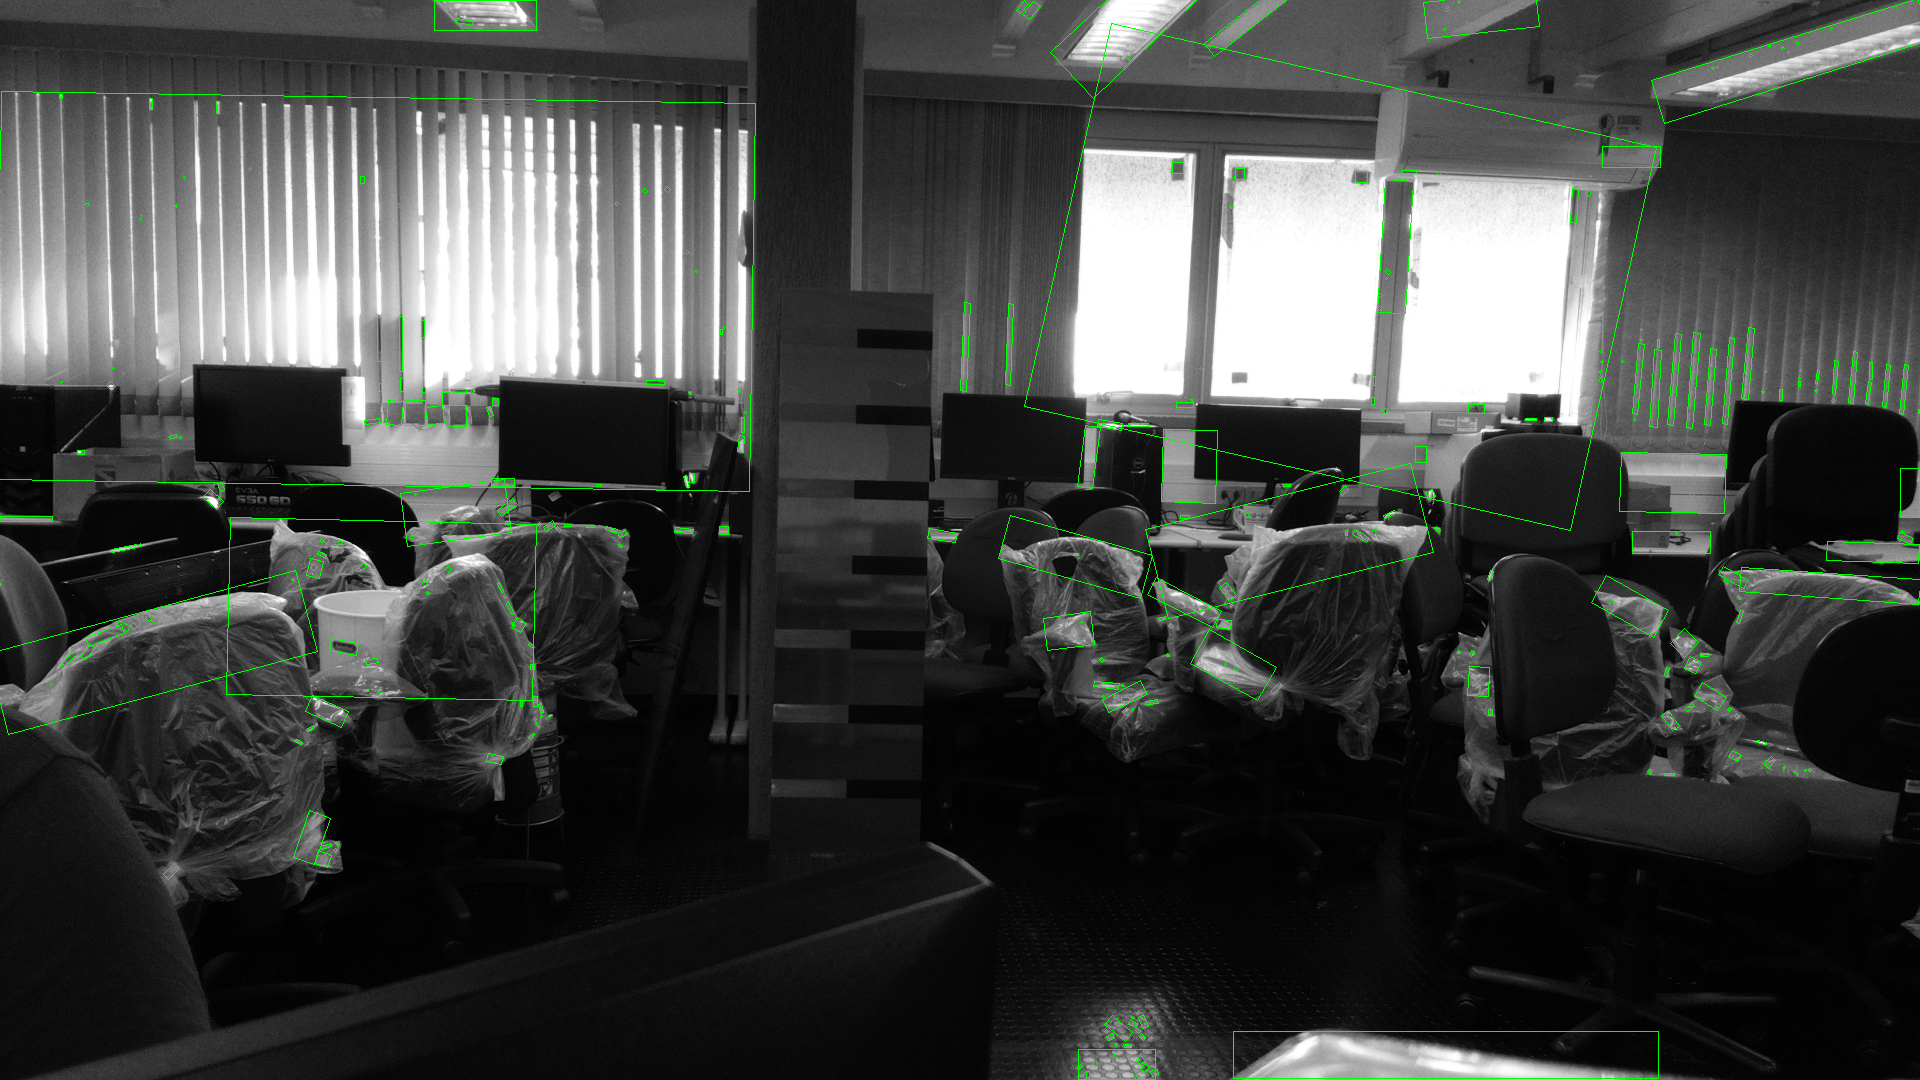
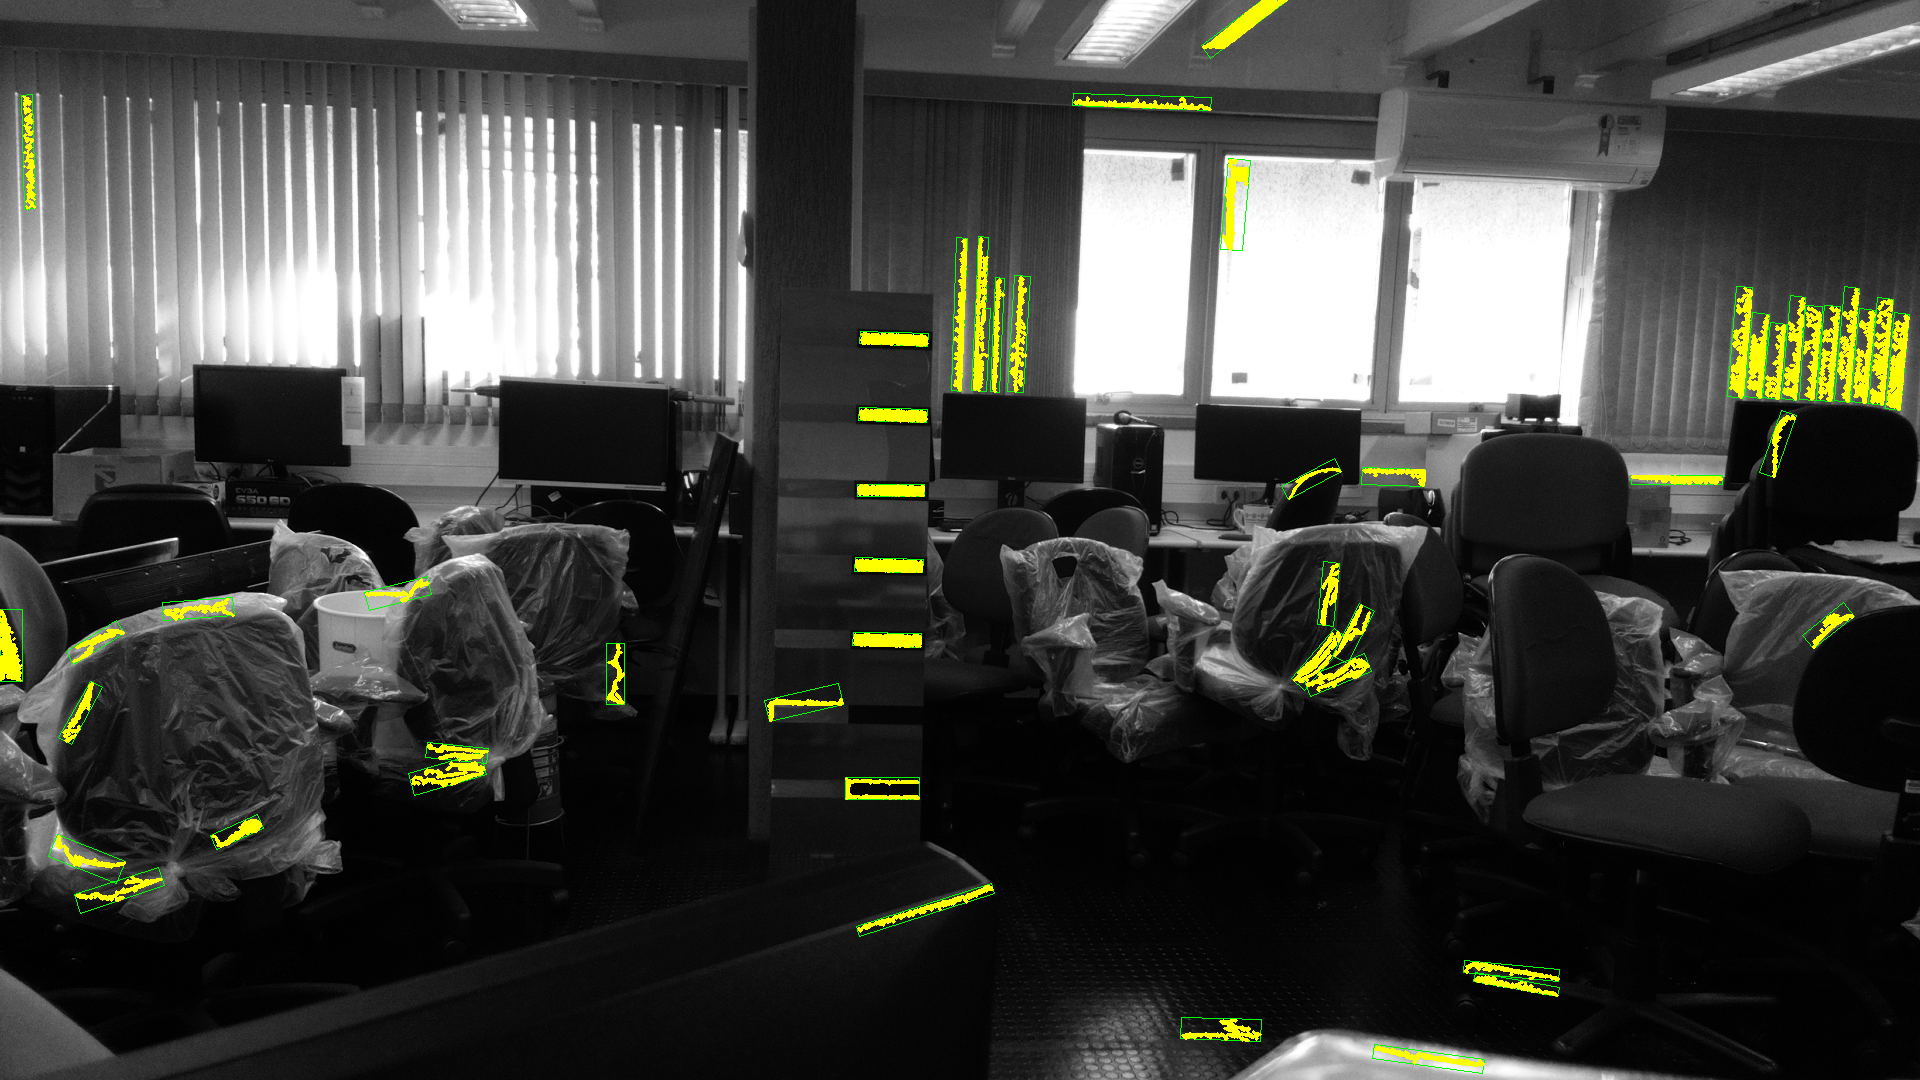
Testando outro metodo de trasholder adaptativo

diff --git a/qualis/codes/teste_bar_detect.py b/qualis/codes/teste_bar_detect.py
@@ -5,7 +5,7 @@ import numpy as np
 import os
 import glob
 import time
-from picamera import PiCamera
+# from picamera import PiCamera
 
 
 # Definicao da funcao morfologica
@@ -37,9 +37,6 @@ def analyze_bars(matblobs,countours_frame, file):
     box = cv2.boxPoints(rot_rect)
     box = np.int0(box)
 
-    # Desenhando o contorno da area da barra encontrada
-    frame = cv2.drawContours(countours_frame,[box],0,(0,255,0),1)
-
     on_count = cv2.contourArea(bar)
     total_count = sw*sh
     if total_count <= 0:
@@ -53,13 +50,12 @@ def analyze_bars(matblobs,countours_frame, file):
       
 
     # Area minima 
-    if sw * sh < 1000:
+    if sw * sh < 800:
       continue
 
     # area maxima
-    if sw * sh > 4000:
+    if sw * sh > 2000:
       continue  
-
 
 
     #print('Area: ', sw * sh)
@@ -67,27 +63,29 @@ def analyze_bars(matblobs,countours_frame, file):
     # Proporcao da barra
     rect_ratio = sw / sh
 
-    #print('rect_ratio:', rect_ratio)
+    # print('rect_ratio:', rect_ratio)
 
-    if rect_ratio <= 9 or rect_ratio >= 14.5:
+    if rect_ratio <= 3 or rect_ratio >= 15.5:
 
       continue
-
 
     # Desenhando o contorno da area da barra encontrada
     #frame = cv2.drawContours(countours_frame,[box],0,(0,0,255),1)
 
     # Proporcao do preenchimento
     fill_ratio = on_count / total_count
-    #print('fill_ratio: ', fill_ratio)
+    # print('fill_ratio: ', fill_ratio)
 
-    if fill_ratio < 0.7 :
-      continue
+    # if fill_ratio < 0.6 :
+    #   continue
 
-    #print('countours_frame[int(cy),int(cx),0] ->', countours_frame[int(cy),int(cx),0])
-    # Remove as barras que sao mais claras
-    if countours_frame[int(cy),int(cx),0] > 200:
-      continue
+    # print('countours_frame[int(cy),int(cx),0] ->', countours_frame[int(cy),int(cx),0])
+    # # Remove as barras que sao mais claras
+    # if countours_frame[int(cy),int(cx),0] > 100:
+    #   continue
+
+    # Desenhando o contorno da area da barra encontrada
+    frame = cv2.drawContours(countours_frame,[box],0,(0,255,0),1)
 
     valid_bars.append(bar)
 
@@ -103,14 +101,14 @@ def analyze_bars(matblobs,countours_frame, file):
 
 def main_process():
 
-  camera = PiCamera() 
+  # camera = PiCamera() 
 
-  camera.start_preview()
-  time.sleep(10)
-  camera.capture('../imgs/in/second_tests/image_' + time.strftime('%Y-%m-%d_%H:%M:%S') + '.jpg')
-  camera.stop_preview()
+  # camera.start_preview()
+  # time.sleep(10)
+  # camera.capture('../imgs/in/second_tests/image_' + time.strftime('%Y-%m-%d_%H:%M:%S') + '.jpg')
+  # camera.stop_preview()
 
-  for file in glob.glob("../imgs/in/second_tests/*"):
+  for file in glob.glob("../imgs/in/third_tests/*"):
 
     img = cv2.imread(file)  
     gray = cv2.cvtColor(img,cv2.COLOR_BGR2GRAY)
@@ -121,7 +119,9 @@ def main_process():
     # Aplicando a tecnica 'thresholding Otsu'
     # Extrair a caracteristica da binarizacao da imagem
     # Otsu thresholding     
-    ret, thresh1 = cv2.threshold(blurred, 0, 255, cv2.THRESH_BINARY + cv2.THRESH_OTSU)  
+    # ret, thresh1 = cv2.threshold(blurred, 9, 100, cv2.THRESH_TOZERO + cv2.THRESH_OTSU)  
+    thresh1 = cv2.adaptiveThreshold (blurred, 190, cv2.ADAPTIVE_THRESH_GAUSSIAN_C, cv2.THRESH_BINARY, 11,2)
+
     cv2.imshow("thresholding",thresh1)
     cv2.waitKey(1)
 
@@ -140,14 +140,26 @@ def main_process():
     cv2.imwrite('../imgs/out/saida7.png', img_with_bars)
     cv2.waitKey(0)
 
-    
-    plt.subplot(131),plt.imshow(img, cmap = 'gray')
-    plt.title('Original'), plt.xticks([]), plt.yticks([])
-    plt.subplot(132),plt.imshow(thresh1,cmap = 'gray')
-    plt.title('Segmentacao'), plt.xticks([]), plt.yticks([])
-    plt.subplot(133),plt.imshow(img_with_bars,cmap = 'gray')
-    plt.title('Barras encontradas'), plt.xticks([]), plt.yticks([])
+    fx, plots = plt.subplots(1, 1, figsize=(35,40))
+    plots.set_title("Original Image")
+    plots.imshow(img, cmap = 'gray')
+
+    fx, plots2 = plt.subplots(1, 1, figsize=(35,40))
+    plots2.set_title("Segmentation Image")
+    plots2.imshow(thresh1, cmap = 'gray')
+
+    fx, plots3 = plt.subplots(1, 1, figsize=(35,40))
+    plots3.set_title("Bar finded")
+    plots3.imshow(img_with_bars, cmap = 'gray')
+
     plt.show()
+    # plt.subplot(131, figsize=(20,10)),plt.imshow(img, cmap = 'gray')
+    # plt.title('Original'), plt.xticks([]), plt.yticks([])
+    # plt.subplot(132, figsize=(20,10)),plt.imshow(thresh1,cmap = 'gray')
+    # plt.title('Segmentacao'), plt.xticks([]), plt.yticks([])
+    # plt.subplot(133, figsize=(20,10)),plt.imshow(img_with_bars,cmap = 'gray')
+    # plt.title('Barras encontradas'), plt.xticks([]), plt.yticks([])
+    # plt.show()
 
 
 

diff --git a/qualis/codes/detect_plate_bar_img_v1.py b/qualis/codes/detect_plate_bar_img_v1.py
@@ -1,0 +1,85 @@
+import cv2
+import matplotlib.pyplot as plt
+import numpy as np
+
+# Load the image
+image1 = cv2.imread('../imgs/in/second_tests/bar_reference4.jpg')
+
+# Convert the training image to RGB
+training_image = cv2.cvtColor(image1, cv2.COLOR_BGR2RGB)
+
+# Convert the training image to gray scale
+training_gray = cv2.cvtColor(training_image, cv2.COLOR_RGB2GRAY)
+
+# Create test image by adding Scale Invariance and Rotational Invariance
+# test_image = cv2.pyrDown(training_image)
+# test_image = cv2.pyrDown(test_image)
+# num_rows, num_cols = test_image.shape[:2]
+
+# rotation_matrix = cv2.getRotationMatrix2D((num_cols/2, num_rows/2), 10, 1)
+# test_image = cv2.warpAffine(test_image, rotation_matrix, (num_cols, num_rows))
+
+# Load the image
+image_test = cv2.imread('../imgs/in/second_tests/image_2021-08-09_10:02:35.jpg')
+test_gray = cv2.cvtColor(image_test, cv2.COLOR_RGB2GRAY)
+
+# Display traning image and testing image
+fx, plots = plt.subplots(1, 2, figsize=(20,10))
+
+plots[0].set_title("Training Image")
+plots[0].imshow(training_image)
+
+plots[1].set_title("Testing Image")
+plots[1].imshow(image_test)
+plt.show()
+
+#Encontrando KeyPoints
+orb = cv2.ORB_create()
+
+train_keypoints, train_descriptor = orb.detectAndCompute(training_gray, None)
+test_keypoints, test_descriptor = orb.detectAndCompute(test_gray, None)
+
+keypoints_without_size = np.copy(training_image)
+keypoints_with_size = np.copy(training_image)
+
+cv2.drawKeypoints(training_image, train_keypoints, keypoints_without_size, color = (0, 255, 0))
+
+cv2.drawKeypoints(training_image, train_keypoints, keypoints_with_size, flags = cv2.DRAW_MATCHES_FLAGS_DRAW_RICH_KEYPOINTS)
+
+# Display image with and without keypoints size
+fx, plots = plt.subplots(1, 2, figsize=(20,10))
+
+plots[0].set_title("Train keypoints With Size")
+plots[0].imshow(keypoints_with_size, cmap='gray')
+
+plots[1].set_title("Train keypoints Without Size")
+plots[1].imshow(keypoints_without_size, cmap='gray')
+plt.show()
+
+# Print the number of keypoints detected in the training image
+print("Number of Keypoints Detected In The Training Image: ", len(train_keypoints))
+
+# Print the number of keypoints detected in the query image
+print("Number of Keypoints Detected In The Query Image: ", len(test_keypoints))
+
+
+
+# Create a Brute Force Matcher object.
+bf = cv2.BFMatcher(cv2.NORM_HAMMING, crossCheck = True)
+
+# Perform the matching between the ORB descriptors of the training image and the test image
+matches = bf.match(train_descriptor, test_descriptor)
+
+# The matches with shorter distance are the ones we want.
+matches = sorted(matches, key = lambda x : x.distance)
+
+result = cv2.drawMatches(training_image, train_keypoints, test_gray, test_keypoints, matches, test_gray, flags = 2)
+
+# Display the best matching points
+plt.rcParams['figure.figsize'] = [14.0, 7.0]
+plt.title('Best Matching Points')
+plt.imshow(result)
+plt.show()
+
+# Print total number of matching points between the training and query images
+print("\nNumber of Matching Keypoints Between The Training and Query Images: ", len(matches))

diff --git a/qualis/codes/detect_color_img_v1.py b/qualis/codes/detect_color_img_v1.py
@@ -1,0 +1,77 @@
+import numpy as np
+import imutils
+import cv2
+
+
+# define the lower and upper boundaries of the colors in the HSV color space
+lower = {'aço': (159,141,118),
+         'bar': (72,72,70)}
+
+upper = {'aço': (113,106,102),
+         'bar': (42,44,43)}
+
+#NOIR
+lower = {'aço': (23,9,31),
+         'bar': (14,6,21)}
+
+upper = {'aço': (39,14,44),
+         'bar': (52,20,50)}
+
+# define standard colors for circle around the object
+colors = {'aço': (0, 0, 255),
+          'bar': (255, 0, 0)}
+
+camera = cv2.VideoCapture(0)
+
+while True:
+    # read the video in real time
+    _, frame = camera.read()
+
+    # resize the frame
+    frame = imutils.resize(frame, width=600)
+    # transform in to HSV
+    hsv = cv2.cvtColor(frame, cv2.COLOR_BGR2HSV)
+    # for each color in dictionary check object in frame
+    for key, value in upper.items():
+        # construct a mask for the color from dictionary`1, then perform
+        # a series of dilations and erosions to remove any small
+        # blobs left in the mask
+        kernel = np.ones((9, 9), np.uint8)
+        mask = cv2.inRange(hsv, lower[key], upper[key])
+        mask = cv2.morphologyEx(mask, cv2.MORPH_OPEN, kernel)
+        mask = cv2.morphologyEx(mask, cv2.MORPH_CLOSE, kernel)
+
+        # find contours in the mask and initialize the current
+        # (x, y) center of the ball
+        cnts = cv2.findContours(mask.copy(), cv2.RETR_EXTERNAL,
+                                cv2.CHAIN_APPROX_SIMPLE)[-2]
+        center = None
+
+        # only proceed if at least one contour was found
+        if len(cnts) > 0:
+            # find the largest contour in the mask, then use
+            # it to compute the minimum enclosing circle and
+            # centroid
+            c = max(cnts, key=cv2.contourArea)
+            ((x, y), radius) = cv2.minEnclosingCircle(c)
+            M = cv2.moments(c)
+            center = (int(M["m10"] / M["m00"]), int(M["m01"] / M["m00"]))
+
+            # only proceed if the radius meets a minimum size. Correct this value for your obect's size
+            if radius > 0.5:
+                # draw the circle and centroid on the frame,
+                # then update the list of tracked points
+                cv2.circle(frame, (int(x), int(y)),
+                           int(radius), colors[key], 2)
+                cv2.putText(frame, key + " object", (int(x-radius), int(y - radius)),
+                            cv2.FONT_HERSHEY_SIMPLEX, 0.6, colors[key], 2)
+
+    # show the frame to our screen
+    cv2.imshow("Frame", frame)
+
+    key = cv2.waitKey(1) & 0xFF
+    # if the 'q' key is pressed, stop the loop
+    if key == ord("q"):
+        break
+camera.release()
+cv2.destroyAllWindows()

diff --git a/qualis/codes/detect_plate_bar_img_v2.py b/qualis/codes/detect_plate_bar_img_v2.py
@@ -1,0 +1,64 @@
+
+import argparse
+
+import cv2
+import numpy as np
+
+import matplotlib.pyplot as plt
+
+def get_corrected_img(img1, img2):
+    MIN_MATCHES = 50
+
+    # Display traning image and testing image
+    fx, plots = plt.subplots(1, 2, figsize=(20,10))
+
+    plots[0].set_title("Training Image")
+    plots[0].imshow(img2)
+
+    plots[1].set_title("Testing Image")
+    plots[1].imshow(img1)
+    plt.show()
+
+    orb = cv2.ORB_create(nfeatures=500)
+    kp1, des1 = orb.detectAndCompute(img1, None)
+    kp2, des2 = orb.detectAndCompute(img2, None)
+
+    index_params = dict(algorithm=6,
+                        table_number=6,
+                        key_size=12,
+                        multi_probe_level=2)
+    search_params = {}
+    flann = cv2.FlannBasedMatcher(index_params, search_params)
+    matches = flann.knnMatch(des1, des2, k=2)
+
+    # As per Lowe's ratio test to filter good matches
+    good_matches = []
+    for m, n in matches:
+        if m.distance < 0.75 * n.distance:
+            good_matches.append(m)
+
+    if len(good_matches) > MIN_MATCHES:
+        src_points = np.float32([kp1[m.queryIdx].pt for m in good_matches]).reshape(-1, 1, 2)
+        dst_points = np.float32([kp2[m.trainIdx].pt for m in good_matches]).reshape(-1, 1, 2)
+        m, mask = cv2.findHomography(src_points, dst_points, cv2.RANSAC, 5.0)
+        corrected_img = cv2.warpPerspective(img1, m, (img2.shape[1], img2.shape[0]))
+
+        return corrected_img
+    return img2
+
+
+if __name__ == "__main__":
+    # parser = argparse.ArgumentParser(add_help=False)
+    # parser.add_argument("--src", default='../imgs/in/second_tests/bar_reference_noir.jpg', help="path for the object image")
+    # parser.add_argument("--dest", default='../imgs/in/second_tests/image_2021-08-09_10:02:35.jpg', help="path for image containing the object")
+    # args = parser.parse_args()
+
+    im1 = cv2.imread('../imgs/in/second_tests/bar_reference2.jpg')
+    im2 = cv2.imread('../imgs/in/second_tests/image_2021-08-09_10:02:35.jpg')
+
+    img = get_corrected_img(im2, im1)
+    # cv2.imshow('Corrected image', img)
+    # cv2.waitKey()
+
+    plt.imshow(img)
+    plt.show()
